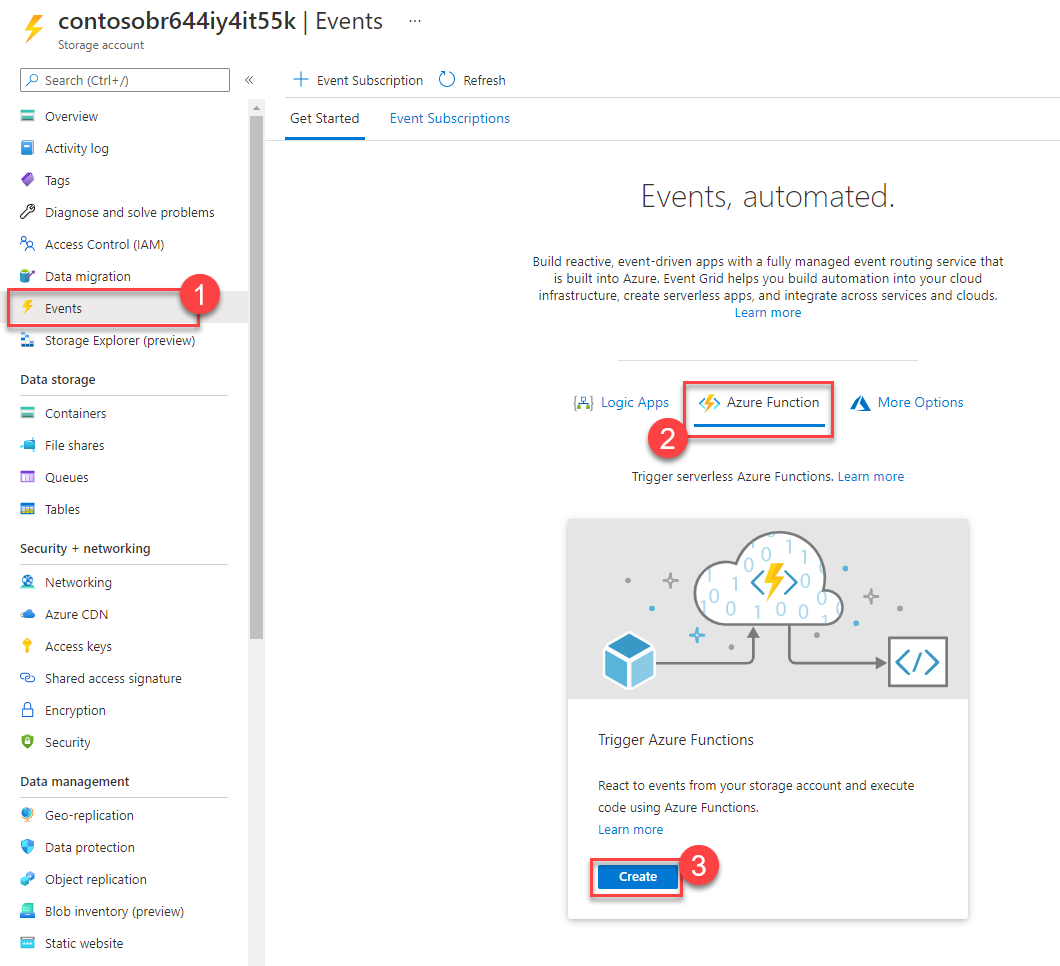
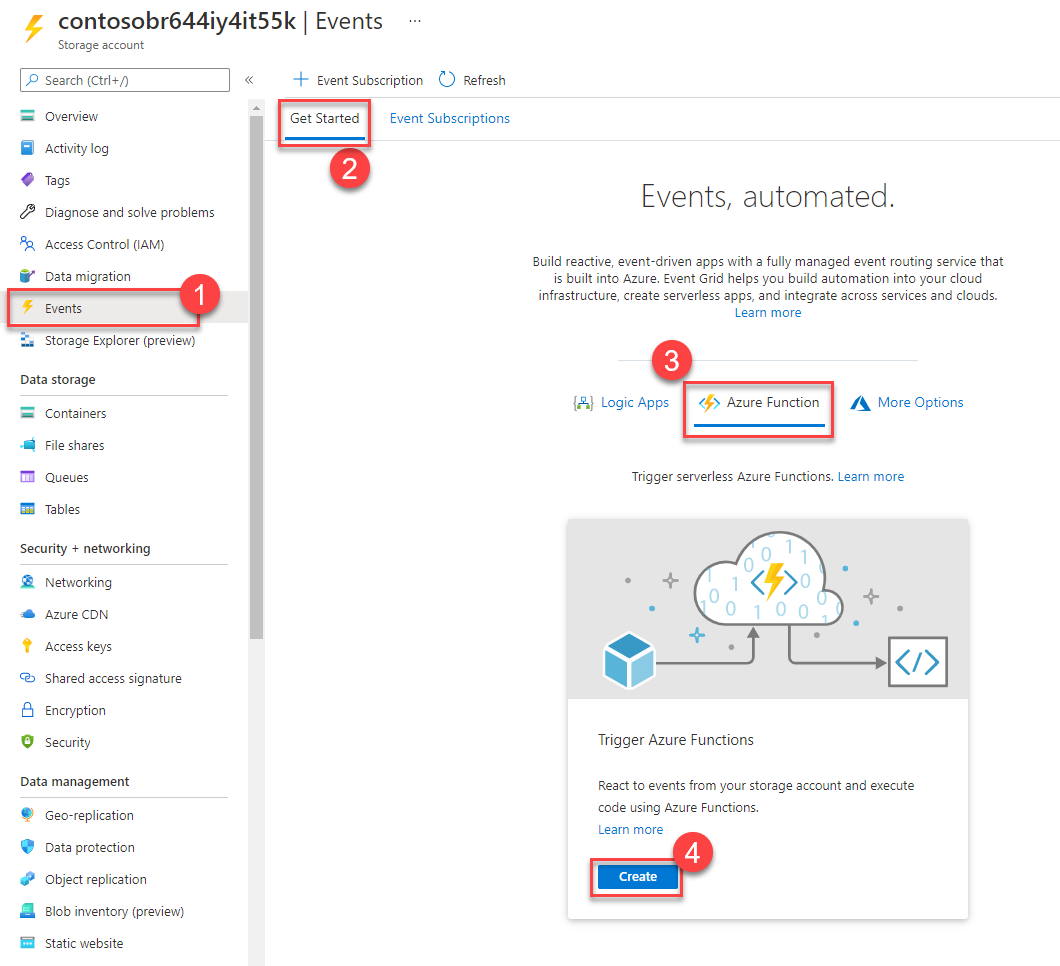
Exercise 2

diff --git a/Hands-on lab/HOL step-by step - Title xxx.md b/Hands-on lab/HOL step-by step - Title xxx.md
@@ -77,7 +77,7 @@ Hospitals in the Contoso Healthcare network provide PDF files of claim forms and
 
 One of the functions handles PDF processing. The function uses an [Azure Forms Recognizer](https://azure.microsoft.com/en-us/services/form-recognizer/) that has a custom trainer model to extract the required information from forms. Once the metadata is extracted, the function saves the result in [Azure CosmosDB](https://azure.microsoft.com/en-us/services/cosmos-db/), allowing Contoso to build custom PowerBI reports with a direct query connection. Additionally, the data is indexed in an [Azure Cognitive Search](https://azure.microsoft.com/en-us/services/search/) to be served in a unified search experience on the internal hospital portal.
 
-A second function in the Function App processes audio recordings. Contoso uses [Azure Cognitive Speech Audio Language Identification](cognitive-services/speech-service/how-to-automatic-language-detection?pivots=programming-language-csharp) to detect the language of the audio file and transcribe it to text. Once the text transcriptions are ready, Spanish transcriptions are translated to English using [Azure Cognitive Services Text Translator](https://azure.microsoft.com/en-us/services/cognitive-services/translator/). Finally, [Azure Cognitive Services Text Analytics for Health](https://docs.microsoft.com/en-us/azure/cognitive-services/text-analytics/how-tos/text-analytics-for-health?tabs=ner) is used to extract and label relevant medical information to provide a richer search experience in the internal hospital portal. Once the results are ready, the function saves the data in an Azure CosmosDB collection to be indexed by Azure Cognitive Search.
+A second function in the Function App processes audio recordings. Contoso uses [Azure Cognitive Speech Audio Language Identification](https://docs.microsoft.com/en-us/azure/cognitive-services/speech-service/how-to-automatic-language-detection?pivots=programming-language-csharp) to detect the language of the audio file and transcribe it to text. Once the text transcriptions are ready, Spanish transcriptions are translated to English using [Azure Cognitive Services Text Translator](https://azure.microsoft.com/en-us/services/cognitive-services/translator/). Finally, [Azure Cognitive Services Text Analytics for Health](https://docs.microsoft.com/en-us/azure/cognitive-services/text-analytics/how-tos/text-analytics-for-health?tabs=ner) is used to extract and label relevant medical information to provide a richer search experience in the internal hospital portal. Once the results are ready, the function saves the data in an Azure CosmosDB collection to be indexed by Azure Cognitive Search.
 
 Finally, the internal hospital portal queries the indexes created in Azure Cognitive Search, offering a unified search experience for both structured and unstructured data sets.
 
@@ -166,15 +166,15 @@ Contoso has its own document template for claims processing. In this exercise, y
 
 As part of its automation process, Contoso will upload claims documents in the form of PDF files to an Azure Storage account as blobs. An Azure Function App has to detect new files and process them with the trained Forms Recognizer Model. [Event Grid](https://docs.microsoft.com/en-us/azure/event-grid/overview) is the perfect candidate to build applications with event-based architectures thanks to its built-in support for events coming from Azure services, like storage blobs and resource groups. For the Functions App to detect new blobs, you will be using an Azure Event Grid subscription and defining an event handler for the matching Azure Function.
 
-1. In the [Azure portal](https://portal.azure.com), navigate to your **contosoSUFFIX** Storage Account Overview page by selecting **Resource groups** from Azure services list, selecting the **hands-on-lab-SUFFIX** resource group, and selecting the **contosoSUFFIX** Storage Account from the list of resources.
+1. In the [Azure portal](https://portal.azure.com), navigate to your **contosoSUFFIX** Storage Account Overview page by selecting **Resource groups** from Azure services list selecting the **hands-on-lab-SUFFIX** resource group, and selecting the **contosoSUFFIX** Storage Account from the list of resources.
 
    ![Lab resource group is open. The storage account is highlighted.](media/select-storage-account.png "Storage Account Selection")
 
-2. Switch to the **Events (1)** panel. Select **Azure Function (2)** as the event destination type. Select **Create (3)** to continue.
+2. Switch to the **Events (1)** panel. Make sure you are on the **Get Started (2)** page. Select **Azure Function (3)** as the event destination type. Select **Create (4)** to continue.
 
-   ![Storage account page is open. Events panel is shown. Azure Functions is selected. Create button is highlighted.](media/storage-event-function.png "Create Storage Event Subscription")
+   ![Storage account page is open. The events panel is shown. Azure Functions is selected. Create button is highlighted.](media/storage-event-function.png "Create Storage Event Subscription")
 
-3. From the list of function apps select the arrow **(1)** for the function app named **contoso-func-SUFFIX** to get a list of functions available. From the list select the **ClaimsProcessing** function.
+3. From the list of function apps, select the arrow **(1)** for the function app named **contoso-func-SUFFIX** to get a list of functions available. From the list, select the **ClaimsProcessing** function.
 
    ![Function Apps are listed. Contoso function app functions are shown. ClaimsProcessing function is highlighted.](media/event-grid-select-claimsprocessing.png "Function Selection for Event Grid")
 
@@ -190,7 +190,7 @@ As part of its automation process, Contoso will upload claims documents in the f
     - **System Topic Name (4):** **DocumentEvent**
     - **Filter to Event Types (5):** Blob Created
 
-   ![Create event subscription page is presented. Event name is set to DocumentEvents. Topic Type is set to Storage account. Source Resource is set to contosoSUFFIX storage account. System Topic Name is set to DocumentEvent. Blob Created and Blob Deleted events are selected. Create button is highlighted.](media/event-grid-create-subscription.png)
+   ![Create event subscription page is presented. The event name is set to DocumentEvents. Topic Type is set to Storage account. Source Resource is set to contosoSUFFIX storage account. System Topic Name is set to DocumentEvent. Blob Created and Blob Deleted events are selected. Create button is highlighted.](media/event-grid-create-subscription.png "Event Grid Subscription Settings")
 
     Select **Create (6)** to continue.
 
@@ -198,19 +198,19 @@ As part of its automation process, Contoso will upload claims documents in the f
 
 For the document processing automation, our Azure Function must read the documents from Azure Storage, connect to Azure Forms Recognizer and use the trained model, and finally connect to CosmosDB to save the final results. In this task, we will connect all the required services to the ClaimsProcessing function.
 
-1. In the [Azure portal](https://portal.azure.com), navigate to your **contosoSUFFIX** Storage Account Overview page by selecting **Resource groups** from Azure services list, selecting the **hands-on-lab-SUFFIX** resource group, and selecting the **contosoSUFFIX** Storage Account from the list of resources.
+1. In the [Azure portal](https://portal.azure.com), navigate to your **contosoSUFFIX** Storage Account Overview page by selecting **Resource groups** from Azure services list selecting the **hands-on-lab-SUFFIX** resource group, and selecting the **contosoSUFFIX** Storage Account from the list of resources.
 
    ![Lab resource group is open. The storage account is highlighted.](media/select-storage-account.png "Storage Account Selection")
 
-2. Switch to the **Access keys (1)** panel. Select **Show keys (2)** to reveal the keys. Select the copy button **(3)** for the first connection string and paste it to a text editor of your choice to be used in the next steps.
+2. Switch to the **Access keys (1)** panel. Select **Show keys (2)** to reveal the keys. Select the copy button **(3)** for the first connection string and paste it to a text editor of your choice to be used in the following steps.
 
-   ![Storage Account Access keys page is shown. Show Keys button is selected. The copy button for the first connection string is highlighted.](media/get-storage-connection-string.png "Copy Storage Connection String")
+   ![Storage Account Access keys page is shown. The show Keys button is selected. The copy button for the first connection string is highlighted.](media/get-storage-connection-string.png "Copy Storage Connection String")
 
 3. Go back to your resource group and find your Cosmos DB account in your lab resource group. Select it to navigate to its Overview page.
 
    ![Resource group page is open. CosmosDB service is highlighted.](media/select-cosmosdb-service.png "Select Cosmos DB service.")
 
-4. Switch to the **Keys (1)** panel. Copy the values for **URI (2)** and **PRIMARY KEY (3)** to a text editor of your choice to be used in the next steps.
+4. Switch to the **Keys (1)** panel. Copy the values for **URI (2)** and **PRIMARY KEY (3)** to a text editor of your choice to be used in the following steps.
 
    ![Keys panel of the Cosmos DB account is open. The copy buttons for URI and Primary Key are highlighted.](media/get-cosmosdb-keys.png "Cosmos DB Key and URI")
 
@@ -235,9 +235,9 @@ For the document processing automation, our Azure Function must read the documen
    | CosmosDBEndpointUrl     | Previously copied **URI** for Cosmos DB             |
    | CosmosDBPrimaryKey      | Previously copied **Primary Key** for Cosmos DB     |
 
-9. Once all settings **(1)** are set select **Save (2)**.
+9. Once all settings **(1)** are set, select **Save (2)**.
 
-  ![New application settings are highlighted. Save button is pointed.](media/function-app-settings-save.png "Save new application settings")
+   ![New application settings are highlighted. Save button is pointed.](media/function-app-settings-save.png "Save new application settings")
 
 ### Task 4: Running document processing automation
 
@@ -270,7 +270,7 @@ Now that all implementations are completed, we can upload a new document to the 
 
     ![The credentials specified above are entered into the Enter your credentials dialog.](media/rdp-credentials-labvm.png "Enter your credentials")
 
-6. Select **Yes** to connect, if prompted that the identity of the remote computer cannot be verified.
+6. Select **Yes** to connect if prompted that the remote computer's identity cannot be verified.
 
     ![In the Remote Desktop Connection dialog box, a warning states that the remote computer's identity cannot be verified and asks if you want to continue anyway. At the bottom, the Yes button is circled.](media/remote-desktop-connection-identity-verification-labvm.png "Remote Desktop Connection dialog")
 
@@ -278,21 +278,21 @@ Now that all implementations are completed, we can upload a new document to the 
 
 8. Once the script completes, open **Edge** and navigate to the [Azure portal](https://portal.azure.com). Enter your credentials to access your subscriptions. Navigate to **contosoSUFFIX** storage account by selecting **Resource groups** from Azure services list, selecting the **hands-on-lab-SUFFIX** resource group, and selecting the **contosoSUFFIX** Storage Account from the list of resources.
 
-    ![Edge is highlighted on the desktop. Browser is open and navigate to portal.azure.com. Storage account overview page is open.](media/azure-portal-labvm.png "Storage Account on Lab VM")
+    ![Edge is highlighted on the desktop. Browser is open and navigated to portal.azure.com. Storage account overview page is open.](media/azure-portal-labvm.png "Storage Account on Lab VM")
 
-9. Switch to the **Containers (1)** panel. Select the **claims (3)** container.
+9. Switch to the **Containers (1)** panel. Select the **claims (2)** container.
 
    ![Contoso storage containers are listed. Claims container is highlighted.](media/storage-claims-container.png "Claims Storage Container")
 
-10. Select **Upload (1)** and **Browse (2)**. Navigate to `C:\MCW\MCW-main\Hands-on lab\lab-files\claims-forms`. Pick **20210621-test-form** and select **Open**.
+10. Select **Upload (1)** and **Browse (2)**. Navigate to `C:\MCW\MCW-main\Hands-on lab\lab-files\claims-forms` **(3)**. Pick **20210621-test-form (4)** and select **Open (5)**.
 
-    ![Container page is open. Upload button is selected. File open dialog shows claims-forms folder with PDF files listed. 20210621-test-form PDF file and Open buttons are highlighted.](media/upload-test-claims-form.png "Local file selection for upload.")
+    ![Container page is open. The upload button is selected. File open dialog shows the claims-forms folder with PDF files listed. 20210621-test-form PDF file and Open button are highlighted.](media/upload-test-claims-form.png "Local file selection for upload.")
 
 11. Select **Upload** to start the upload process.
 
     ![Upload blob dialog is open. 20210621-test-form.pdf is selected. Upload button is highlighted.](media/storage-upload-claims-form.png "File Upload")
 
-12. Now, if everything went smooth, we should see the result in the Cosmos DB service. Go back to your resource group and find your Cosmos DB Account named `contoso-cdb-SUFFIX` in your lab resource group. Select it to navigate to its Overview page.
+12. Now, if everything went smoothly, we should see the result in the Cosmos DB service. Go back to your resource group and find your Cosmos DB Account named `contoso-cdb-SUFFIX` in your lab resource group. Select it to navigate to its Overview page.
 
     ![Resource group page is open. CosmosDB service is highlighted.](media/select-cosmosdb-service.png "Select Cosmos DB service.")
 
@@ -300,7 +300,7 @@ Now that all implementations are completed, we can upload a new document to the 
 
     ![Cosmos DB Overview page is open. Data explorer button is highlighted.](media/cosmosdb-data-explorer.png "Cosmos DB Data Explorer")
 
-14. Select the **Items (1)** list under the **Contoso** database's **Claims** collection. Select the first document **(2)** to see it's content. Take a look at the values extracted by Forms Recognizer such as **PatientName** and **Diagnosis (3)**.
+14. Select the **Items (1)** list under the **Contoso** database's **Claims** collection. Select the first document **(2)** to see its content. Take a look at the values extracted by Forms Recognizer, such as **PatientName** and **Diagnosis (3)**.
 
     ![Cosmos DB Data Explorer is open. Claims Document values are shown as a document in Claims collection in the Contoso database.](media/cosmosdb-data-explorer-claims-document.png "Claims Document in Cosmos DB")
 
@@ -308,15 +308,126 @@ Now that all implementations are completed, we can upload a new document to the 
 
 Duration: X minutes
 
-\[insert your custom Hands-on lab content here . . . \]
+Contoso uploads audio recordings of patient visits to an Azure Storage Blob service. An Azure Function will be triggered with an Event Grid subscription/event handler to process recordings. The function will first detect the language of the recording using [Azure Cognitive Speech Audio Language Identification](https://docs.microsoft.com/en-us/azure/cognitive-services/speech-service/how-to-automatic-language-detection?pivots=programming-language-csharp) and then transcribe it to text. Once transcriptions are ready, Spanish records will be translated to English based on Contoso's requirements. Finally, [Azure Cognitive Services Text Analytics for Health](https://docs.microsoft.com/en-us/azure/cognitive-services/text-analytics/how-tos/text-analytics-for-health?tabs=ner) will extract and label relevant medical information to provide a richer search experience. During the exercise, you will integrate all the pieces, run a couple of sample recordings, and observe the results.
 
 ### Task 1: Configuring Azure Functions and Event Grid for audio uploads
 
+As part of its automation process, Contoso will upload audio recordings of patient visits as WAV files to an Azure Storage account as blobs. An Azure Function App has to detect new files and process them with multiple Cognitive Services. For the Functions App to detect new blobs, you will be using a new Azure Event Grid subscription and defining an event handler for the matching Azure Function.
+
+1. In the [Azure portal](https://portal.azure.com), navigate to your **contosoSUFFIX** Storage Account Overview page by selecting **Resource groups** from Azure services list selecting the **hands-on-lab-SUFFIX** resource group, and selecting the **contosoSUFFIX** Storage Account from the list of resources.
+
+   ![Lab resource group is open. The storage account is highlighted.](media/select-storage-account.png "Storage Account Selection")
+
+2. Switch to the **Events (1)** panel. Make sure you are on the **Get Started (2)** page. Select **Azure Function (3)** as the event destination type. Select **Create (4)** to continue.
+
+   ![Storage account page is open. The events panel is shown. Azure Functions is selected. Create button is highlighted.](media/storage-event-function.png "Create Storage Event Subscription")
+
+3. From the list of function apps, select the arrow **(1)** for the function app named **contoso-func-SUFFIX** to get a list of functions available. From the list, select the **AudioProcessing** function.
+
+   ![Function Apps are listed. Contoso function app functions are shown. ClaimsProcessing function is highlighted.](media/event-grid-select-audioprocessing.png "Function Selection for Event Grid")
+
+4. Select **Add Event Grid Subscription (1)**.
+
+   ![ClaimsProcessing function is selected. Add Event Grid Subscription link is highlighted.](media/event-grid-add-subscription-for-audioprocessing.png "Add Event Grid Subscription")
+
+5. Set the values listed below.
+
+    - **Name (1):** **AudioEvents**
+    - **Topic Type (2):** Storage account.
+    - **Source Resource (3):** Contoso storage account.
+    - **System Topic Name (4):** **DocumentEvent**
+    - **Filter to Event Types (5):** Blob Created
+
+   ![Create event subscription page is presented. The event name is set to DocumentEvents. Topic Type is set to Storage account. Source Resource is set to contosoSUFFIX storage account. System Topic Name is set to DocumentEvent. Blob Created and Blob Deleted events are selected. Create button is highlighted.](media/event-grid-create-subscription-for-audio.png "Event Grid Subscription Settings")
+
+    Select **Create (6)** to continue.
+
 ### Task 2: Connecting Cognitive Services to Azure Functions
 
-### Task 3: Storing enriched metadata in Cosmos DB
+For audio recording processing, the AudioProcessing function will use multiple Cognitive Service accounts. Cognitive Services Speech will be used to detect the language of the recording and to transcribe the audio file. Cognitive Services Translator will be used to translate Spanish transcriptions to English. Finally, Cognitive Services Text Analytics will be used to extract and label relevant medical information from transcriptions. In this task, you will be connecting all the required Cognitive Services to the AudioProcessing Azure Function.
 
-### Task 4: Running audio record processing automation
+1. In the [Azure portal](https://portal.azure.com), navigate to your **contoso-speech-SUFFIX** Cognitive Service Overview page by selecting **Resource groups** from Azure services list, selecting the **hands-on-lab-SUFFIX** resource group, and selecting the **contoso-speech-SUFFIX** Cognitive Service Account from the list of resources.
+
+   ![Lab resource group is open. The Cognitive Service Speech account is highlighted.](media/select-speech-account.png "Cognitive Service Speech Account Selection")
+
+2. Switch to the **Keys and Endpoint (1)** panel. Copy **Key 1 (2)** and **Location (3)** to a text editor of your choice to be used in upcoming steps during the lab.
+
+   ![Cognitive Services Speech Keys and Endpoint panel is shown. Key 1 Copy and Location Copy buttons are highlighted.](media/get-speech-service-keys.png "Copy Cognitive Service Speech Key and Endpoint")
+
+3. Go back to your resource group and find your Cognitive Service named **contoso-translate-SUFFIX** in your lab resource group. Select it to navigate to its Overview page.
+
+   ![Lab resource group is open. The Cognitive Service Translate account is highlighted.](media/select-translate-account.png "Cognitive Service Translate Account Selection")
+
+4. Switch to the **Keys and Endpoint (1)** panel. Copy **Key 1 (2)**, **Location (3)** and **Text Translation Endpoint (4)** to a text editor of your choice to be used in upcoming steps during the lab.
+
+   ![Cognitive Services Translate Keys and Endpoint panel is shown. Key 1 Copy, Location Copy, and Text Translation copy buttons are highlighted.](media/get-translate-service-keys.png "Copy Cognitive Service Translate Key and Endpoint")
+
+5. Go back to your resource group and find your Cognitive Service named **contoso-textanalytics-SUFFIX** in your lab resource group. Select it to navigate to its Overview page.
+
+   ![Lab resource group is open. The Cognitive Service Text Analytics account is highlighted.](media/select-textanalytics-account.png "Cognitive Service Text Analytics Account Selection")
+
+6. Switch to the **Keys and Endpoint (1)** panel. Copy **Key 1 (2)** and **Endpoint (3)** to a text editor of your choice to be used in upcoming steps during the lab.
+
+   ![Cognitive Services Text Analytics Keys and Endpoint panel is shown. Key 1 Copy and Endpoint copy buttons are highlighted.](media/get-textanalytics-service-keys.png "Copy Cognitive Service Text Analytics Key and Endpoint")
+
+7. Go back to your resource group and find your Function App named **contoso-func-SUFFIX** in your lab resource group. Select it to navigate to its Overview page.
+
+   ![Resource group page is open. Function App is highlighted.](media/select-azure-function.png "Select Function App.")
+
+8. Switch to the **Configuration (1)** panel. Select **New application setting (2)**.
+
+   ![Function App Configuration page is open. New application setting link is highlighted.](media/function-app-new-application-setting-step2.png "Function App New Application Setting")
+
+9. Set **Name (1)** to **SpeechRegion** and **Value (2)** to the previously copied Speech service's **Location**. Select **OK (3)** to save.
+
+   ![Add Edit Application setting panel is open. Name is set to ContosoStorageConnectionString. Value is set to the previously copied Contoso storage account connection string. OK button is highlighted.](media/function-app-setting-speech-region.png)
+
+10. Repeat the same steps to add the **Application Settings** listed below.
+
+    | Name                  | Value                                                                                           |
+    |-----------------------|-------------------------------------------------------------------------------------------------|
+    | SpeechKey             | Previously copied **Key 1** for Cognitive Services Speech Account                               |
+    | TranslatorKey         | Previously copied **Key 1** for Cognitive Services Text Translation Account                     |
+    | TranslatorEndpoint    | Previously copied **Text Translation Endpoint** for Cognitive Services Text Translation Account |
+    | TranslatorLocation    | Previously copied **Location** for Cognitive Services Text Translation Account                  |
+    | TextAnalyticsKey      | Previously copied **Key 1** for Cognitive Services Text Analytics Account                       |
+    | TextAnalyticsEndpoint | Previously copied **Endpoint** for Cognitive Services Text Analytics Account                    |
+
+11. Once all settings **(1)** are set, select **Save (2)**.
+
+   ![New application settings are highlighted. Save button is pointed.](media/function-app-settings-save-step2.png "Save new application settings")
+
+### Task 3: Running audio record processing automation
+
+Now that all implementations are completed, we can upload new patient recordings and see the entire process of transcription, translation, and the extraction of medical information from audio files.
+
+1. Connect to your LABVM. Open **Edge** and navigate to the [Azure portal](https://portal.azure.com). Enter your credentials to access your subscriptions. Navigate to **contosoSUFFIX** storage account by selecting **Resource groups** from Azure services list, selecting the **hands-on-lab-SUFFIX** resource group, and selecting the **contosoSUFFIX** Storage Account from the list of resources.
+
+    ![Edge is highlighted on the desktop. Browser is open and navigated to portal.azure.com. Storage account overview page is open.](media/azure-portal-labvm.png "Storage Account on Lab VM")
+
+2. Switch to the **Containers (1)** panel. Select the **audiorecordings (2)** container.
+
+   ![Contoso storage containers are listed. audiorecordings container is highlighted.](media/storage-audiorecordings-container.png "audiorecordings Storage Container")
+
+3. Select **Upload (1)** and **Browse (2)**. Navigate to `C:\MCW\MCW-main\Hands-on lab\lab-files\audio-recordings` **(3)**. Choose all the files **(4)** and select **Open (5)**.
+
+    ![Container page is open. The upload button is selected. File open dialog shows the audio-recordings folder with WAV files listed. All WAV files and Open button are highlighted.](media/upload-audio-recordings.png "Local file selection for upload.")
+
+4. Select **Upload** to start the upload process.
+
+    ![Upload blob dialog is open. 20210621-test-form.pdf is selected. Upload button is highlighted.](media/storage-upload-claims-form.png "File Upload")
+
+5. Now, if everything went smoothly, we should see the result in the Cosmos DB service. Go back to your resource group and find your Cosmos DB Account named `contoso-cdb-SUFFIX` in your lab resource group. Select it to navigate to its Overview page.
+
+    ![Resource group page is open. CosmosDB service is highlighted.](media/select-cosmosdb-service.png "Select Cosmos DB service.")
+
+6. Select **Data Explorer**.
+
+    ![Cosmos DB Overview page is open. Data explorer button is highlighted.](media/cosmosdb-data-explorer.png "Cosmos DB Data Explorer")
+
+7. Select the **Items (1)** list under the **Contoso** database's **Transcriptions** collection. Select the first document **(2)** to see it's content. Take a look at the **TranscribedText (3)** and **HealthcareEntities (4)** extracted.
+
+    ![Cosmos DB Data Explorer is open. Claims Document values are shown as a document in Claims collection in the Contoso database.](media/cosmosdb-data-explorer-audio-transcriptions.png "Claims Document in Cosmos DB")
 
 ## Exercise 3: Using Azure Cognitive Search to index and serve data
 
